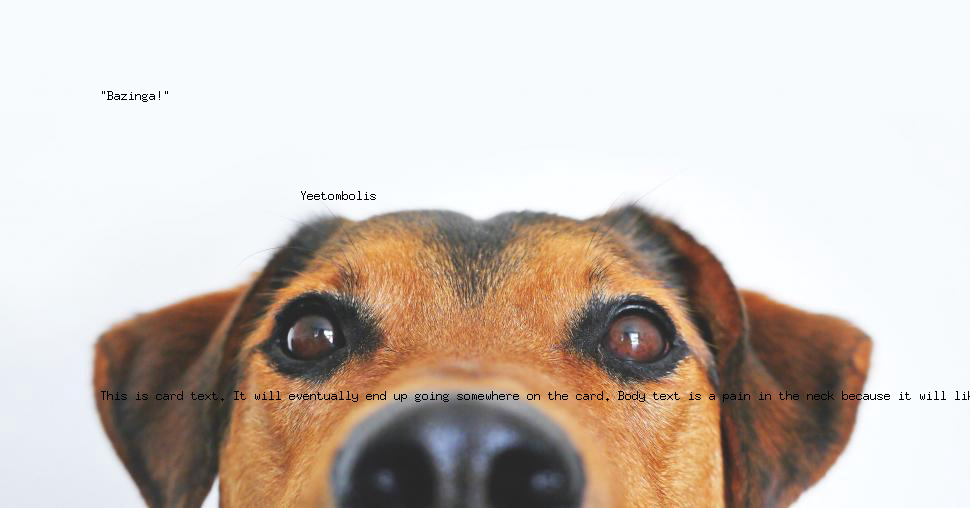
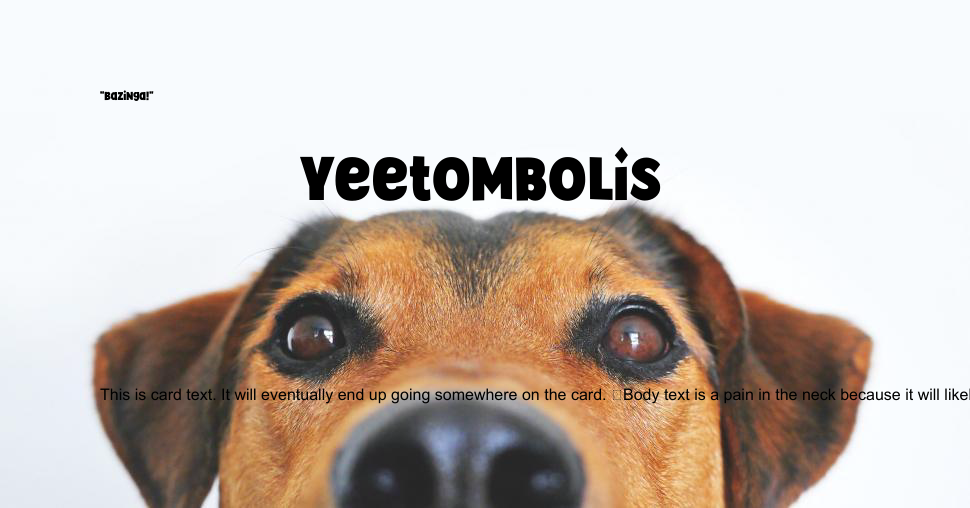
add font typeface and size loading

Changed region(s): [[0.3093, 0.2953, 0.6804, 0.4134], [0.0928, 0.7677, 1.0, 0.7972], [0.0928, 0.1772, 0.1546, 0.2067]]

diff --git a/src/main.go b/src/main.go
@@ -11,6 +11,10 @@ import (
 
 func drawTextNode(context *gg.Context, spec parse.TextSpec, content parse.TextContent) {
 
+	if err := context.LoadFontFace("../resources/fonts/"+spec.Font+".ttf", spec.FontSize); err != nil {
+		log.Fatalf("Error loading font: %v", err)
+	}
+
 	context.SetRGB(0, 0, 0)
 	context.DrawString(content.Text, spec.X, spec.Y)
 }
@@ -48,6 +52,7 @@ func paintNodes(context *gg.Context, specs map[string]parse.SpecNode, contents m
 func main() {
 	const inputPath = "../resources/images/dog-eyes.jpg"
 	const outputPath = "../resources/images/output.png"
+	const fontPath = "../resources/fonts/"
 
 	// Load the image
 	image, err := gg.LoadImage(inputPath)
@@ -59,9 +64,6 @@ func main() {
 	dc := gg.NewContextForImage(image) // Create a context with zero width and height, will auto adjust
 
 	// Load the font
-	// if err := dc.LoadFontFace(fontPath, fontSize); err != nil {
-	// 	log.Fatalf("Error loading font: %v", err)
-	// }
 
 	specNodes := parse.GetSpecification("../spec_dev.json")
 	contentNodes := parse.GetContent("../content_dev.json")

diff --git a/src/parse/SpecParser.go b/src/parse/SpecParser.go
@@ -14,8 +14,8 @@ type TextSpec struct {
 	X        float64 `json:"x"`
 	Y        float64 `json:"y"`
 	Font     string  `json:"font"`
-	FontSize int     `json:"font_size"`
-	MaxWidth int     `json:"max_width"`
+	FontSize float64 `json:"font_size"`
+	MaxWidth float64 `json:"max_width"`
 }
 
 func (t TextSpec) isSpec() {}
